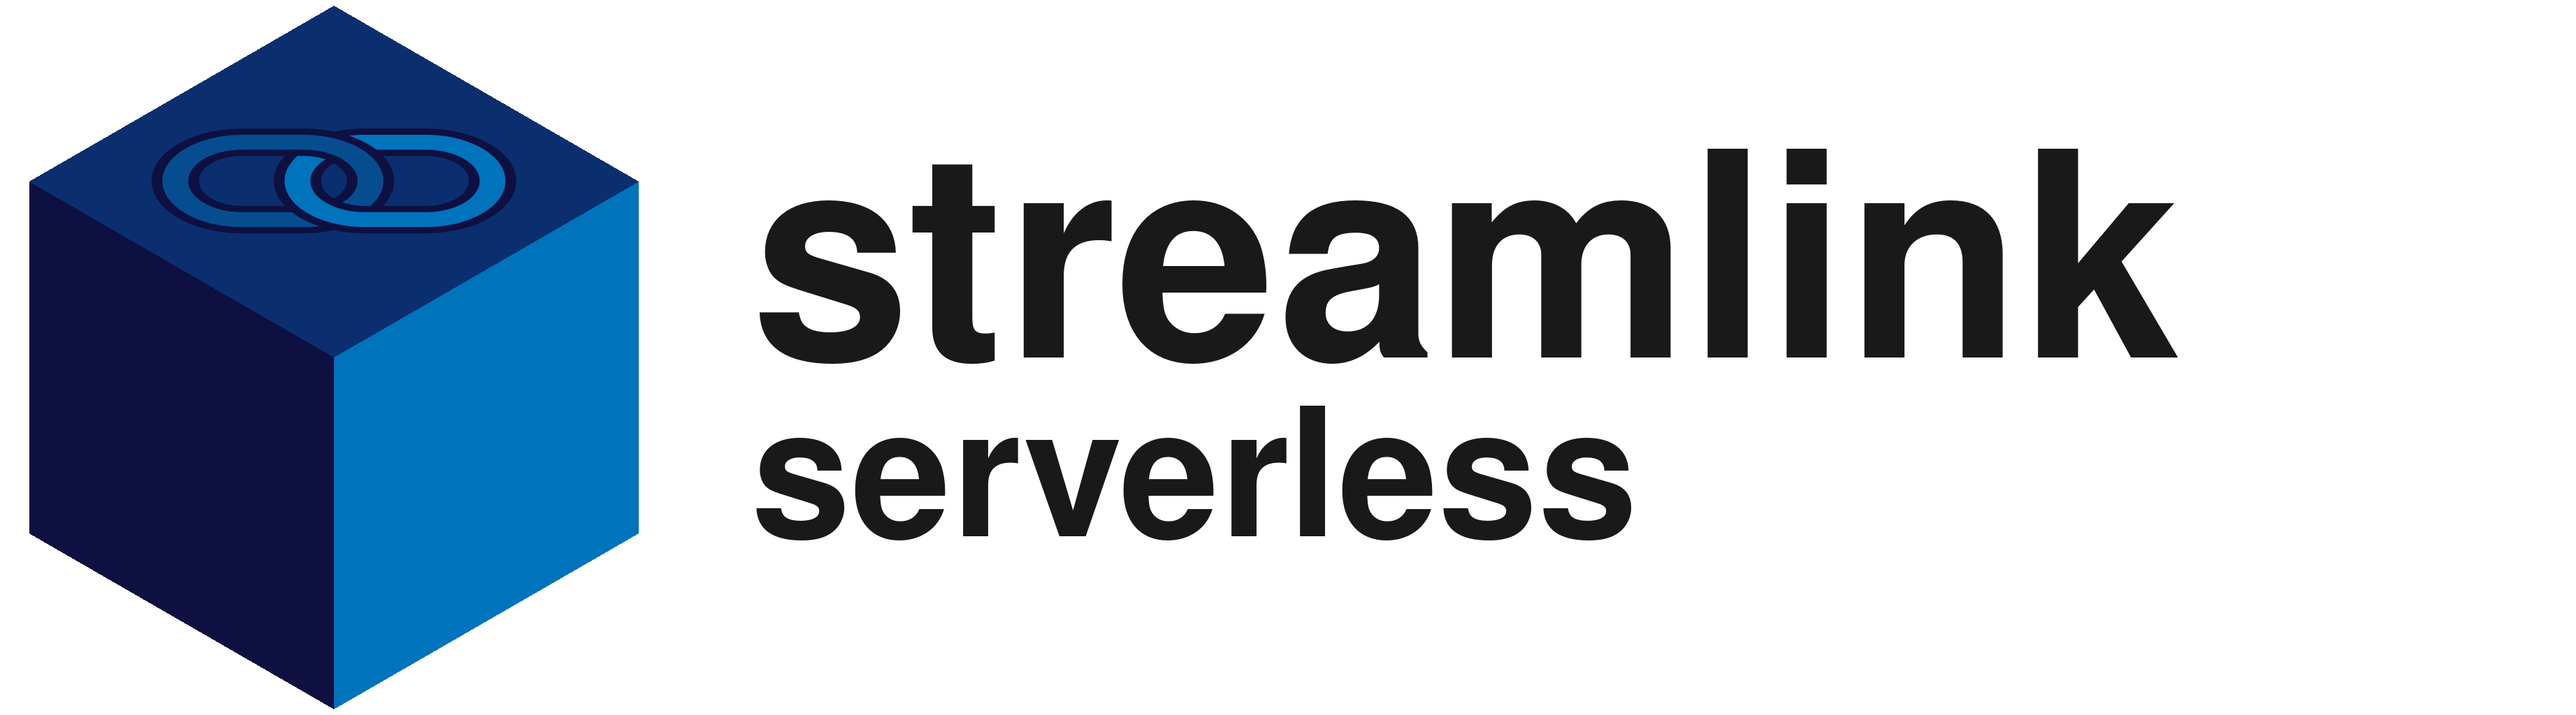
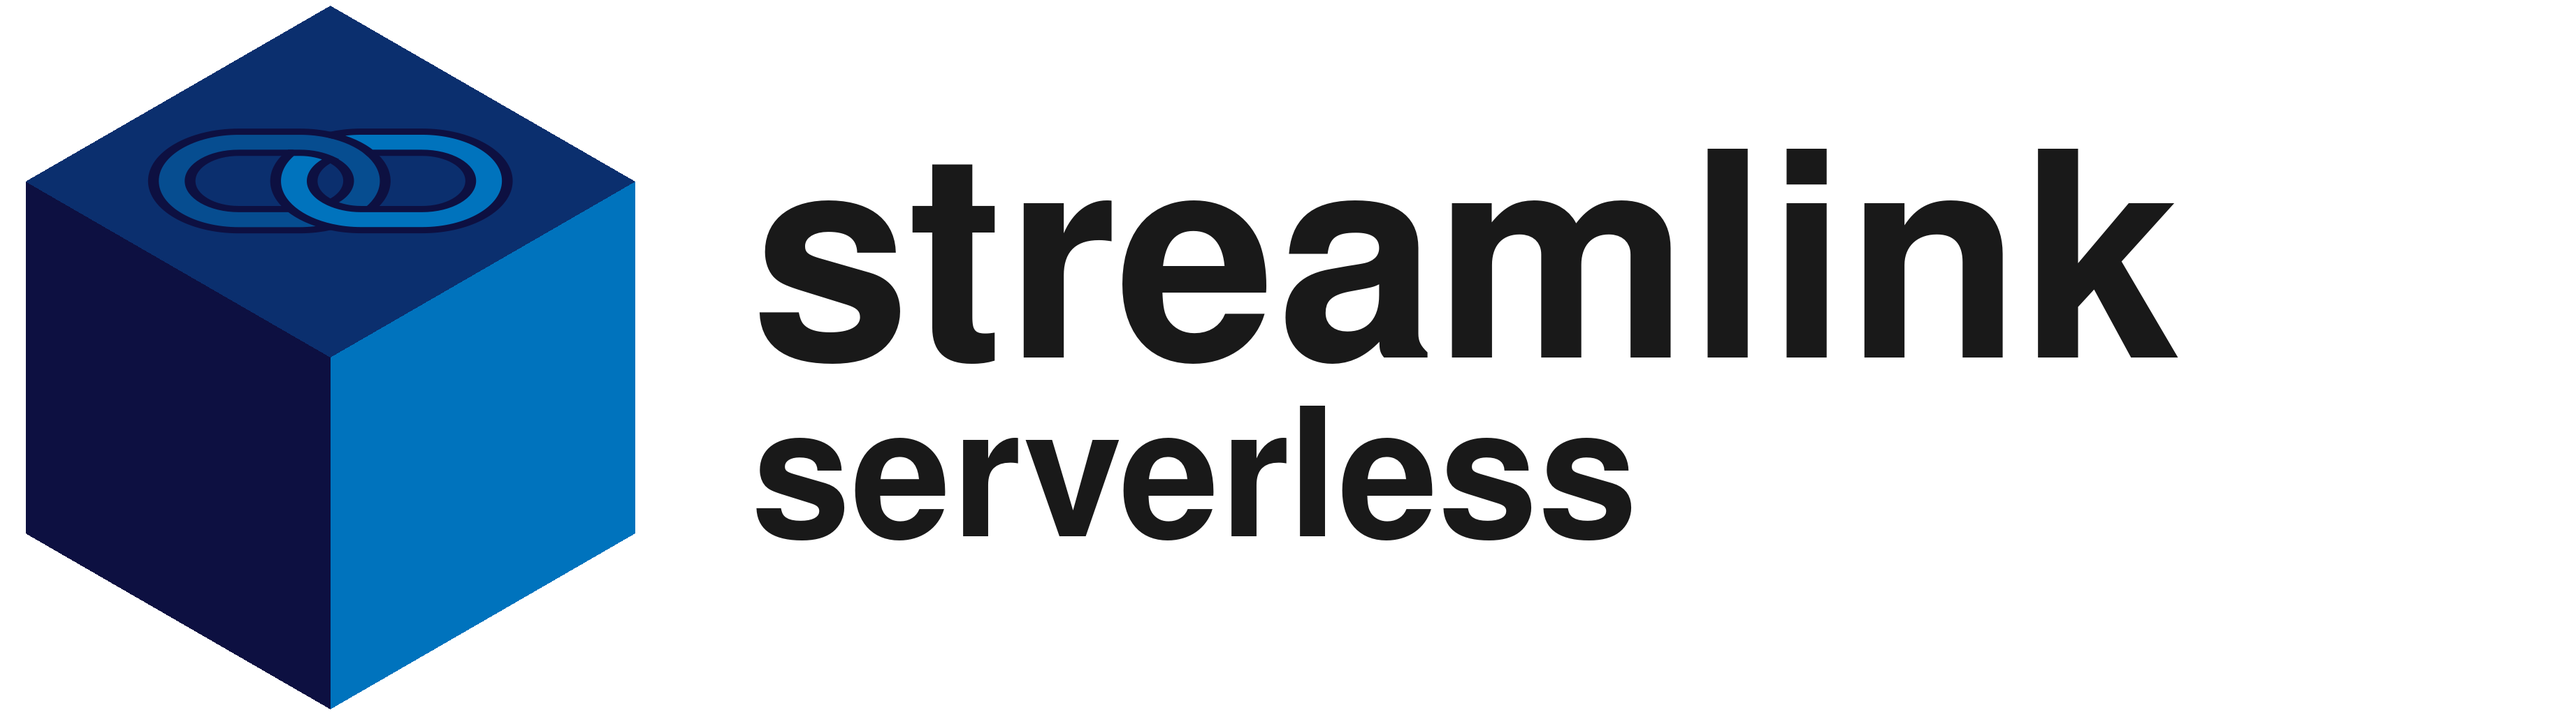
fixes

Changed region(s): [[0.0624, 0.1875, 0.156, 0.3125]]

diff --git a/.projenrc.ts b/.projenrc.ts
@@ -39,7 +39,7 @@ new LogoSystem(project, {
     width: 145,
     height: 166,
     scale: 1.23,
-    dx: 4,
+    dx: 3,
   },
   wordmark: {
     font: {
